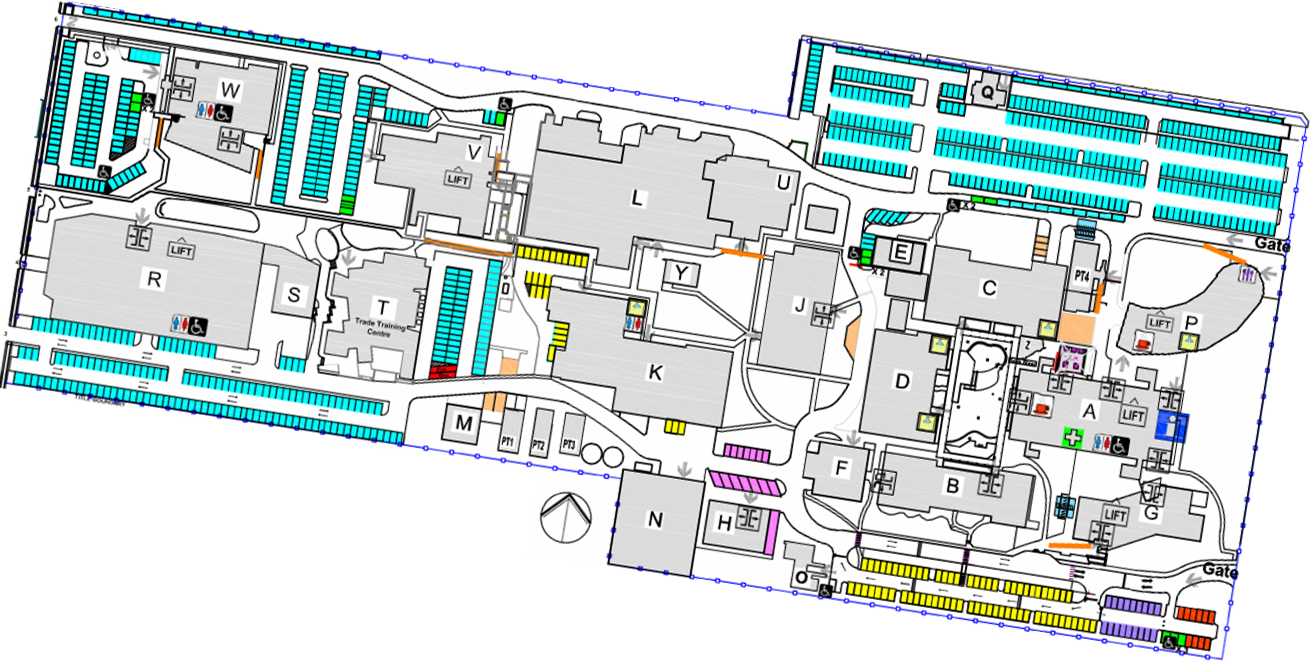
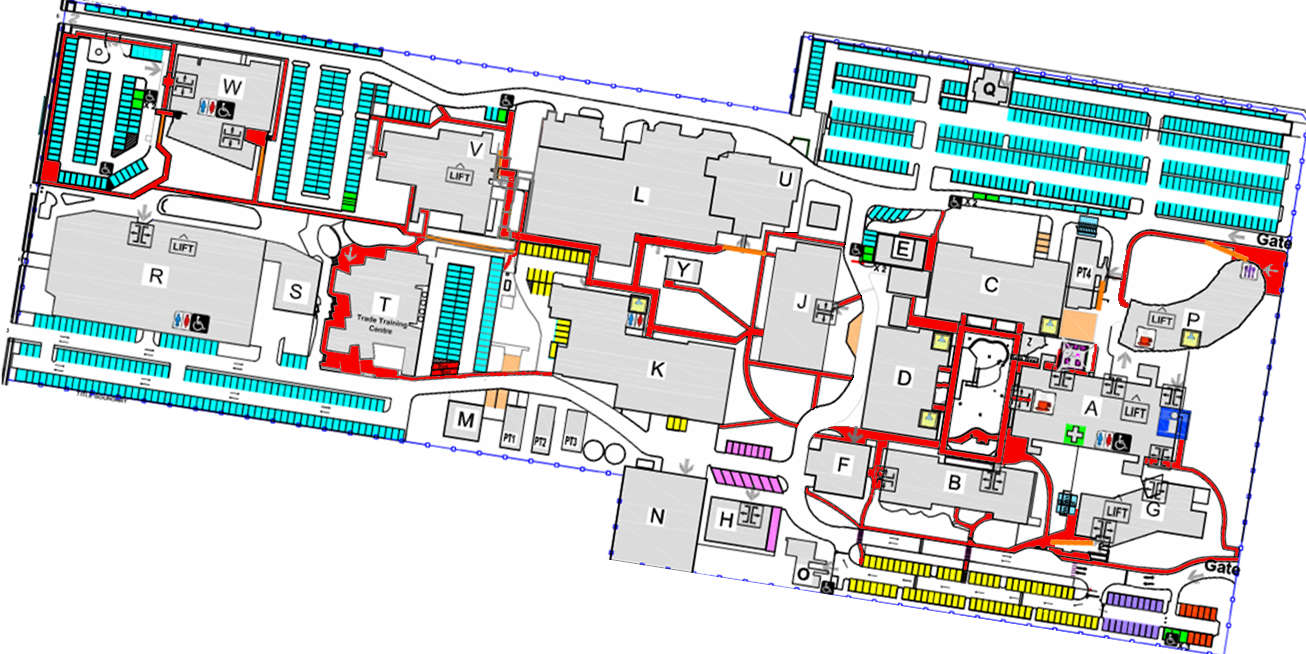
just added in all the walkways on the map and slight movement of the top right corner

diff --git a/mapData.js b/mapData.js
@@ -35,7 +35,7 @@ function initialize()
 {
 	var imageBounds = new google.maps.LatLngBounds(
       new google.maps.LatLng(-37.97668856261104, 145.21637320518494),
-      new google.maps.LatLng(-37.9740004626132, 145.2226710319519));
+      new google.maps.LatLng(-37.97396526056601, 145.22268176078796));
 	  //Bottom Left corner Co-ordinates are first. the Top Right Co-ordinates are second.
 
 	

diff --git a/markers.html b/markers.html
@@ -40,7 +40,7 @@ google.maps.event.addDomListener(window, 'load', initialize);
 </head>
 
 <body>
-<div id="googleMap" style="width:1050px;height:500px;"></div>
+<div id="googleMap" style="width:1250px;height:700px;"></div>
 
 </body>
 </html>
